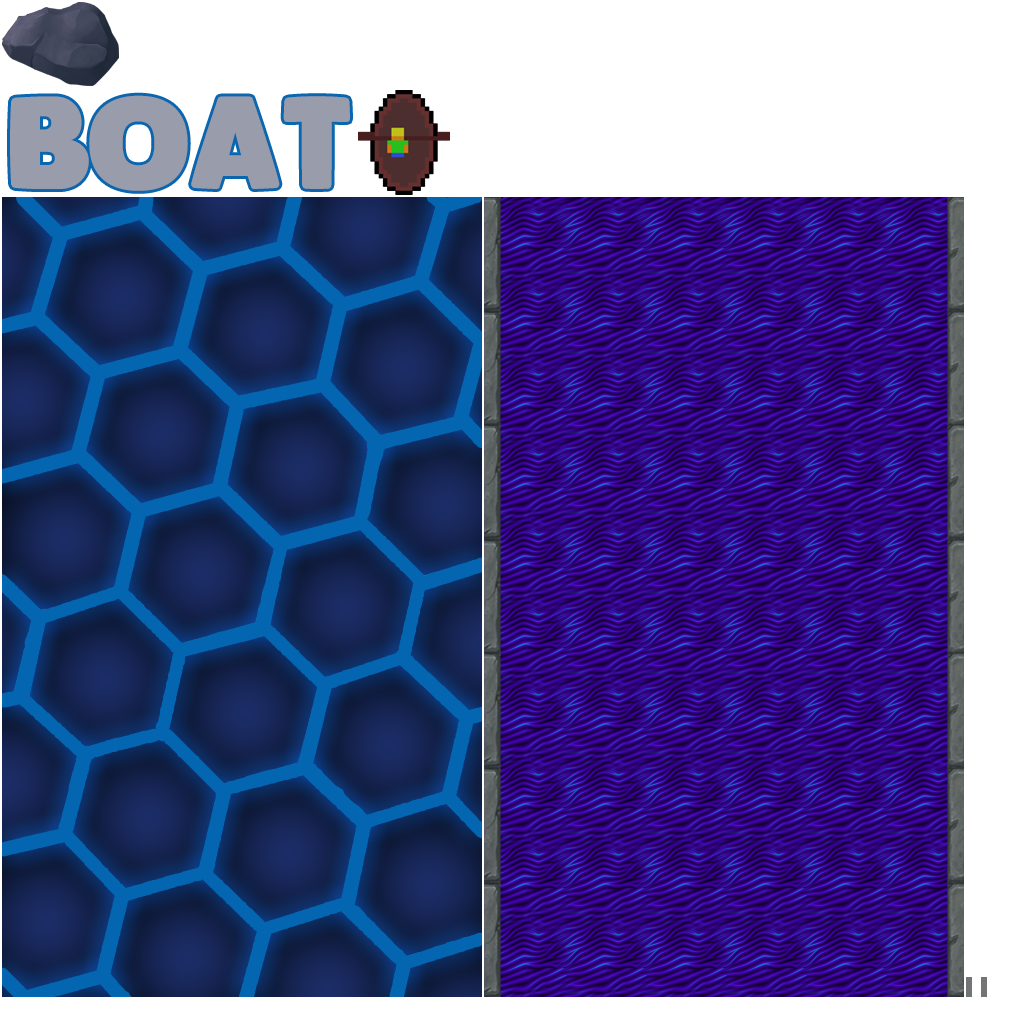
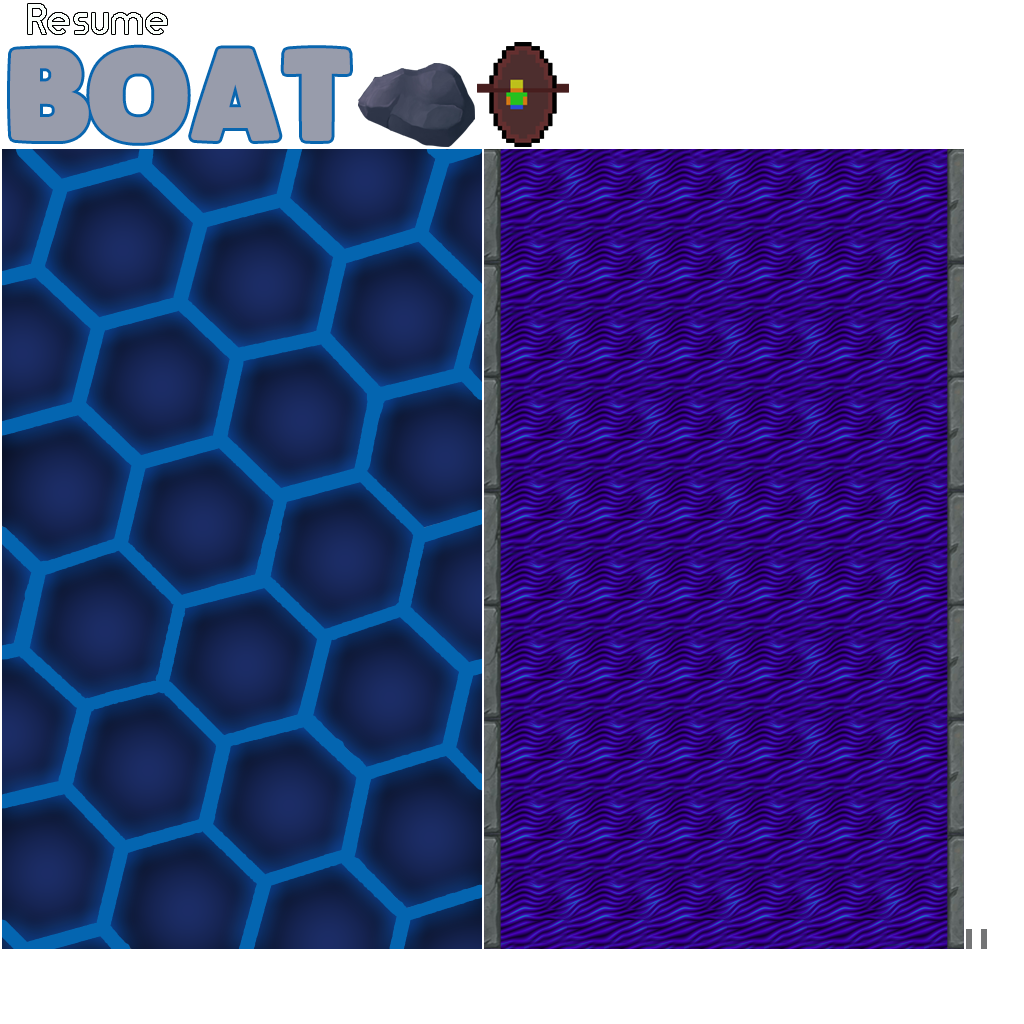
Pause

diff --git a/core/src/com/itayandtamir/game/Screens/PlayScreen.java b/core/src/com/itayandtamir/game/Screens/PlayScreen.java
@@ -4,8 +4,19 @@ import com.badlogic.gdx.Gdx;
 import com.badlogic.gdx.InputAdapter;
 import com.badlogic.gdx.InputMultiplexer;
 import com.badlogic.gdx.ScreenAdapter;
+import com.badlogic.gdx.graphics.GL20;
 import com.badlogic.gdx.input.GestureDetector;
+import com.badlogic.gdx.math.Rectangle;
+import com.badlogic.gdx.math.Vector3;
+import com.badlogic.gdx.scenes.scene2d.Actor;
+import com.badlogic.gdx.scenes.scene2d.InputEvent;
 import com.badlogic.gdx.scenes.scene2d.Stage;
+import com.badlogic.gdx.scenes.scene2d.ui.Image;
+import com.badlogic.gdx.scenes.scene2d.ui.Label;
+import com.badlogic.gdx.scenes.scene2d.ui.TextButton;
+import com.badlogic.gdx.scenes.scene2d.ui.Window;
+import com.badlogic.gdx.scenes.scene2d.utils.ClickListener;
+import com.badlogic.gdx.utils.Align;
 import com.badlogic.gdx.utils.viewport.StretchViewport;
 import com.itayandtamir.game.Actors.Boat;
 import com.itayandtamir.game.Actors.ObstacleGroup;
@@ -14,26 +25,38 @@ import com.itayandtamir.game.Assets;
 import com.itayandtamir.game.FirstGame;
 import com.itayandtamir.game.Screens.Stages.PlayHud;
 
+import java.security.AllPermission;
+
 public class PlayScreen extends ScreenAdapter {
     private FirstGame game;
-    private Stage stage;
+    public static Stage stage;
 
+    public static Image image;
     private PlayBackgrounds backgrounds;
     private ObstacleGroup obstacles;
     private Boat boat;
     private PlayHud playHud;
+    Vector3 touchPos;
+    Rectangle resumeRec;
 
-    enum GameState {
+
+    public enum GameState {
         Play, Pause, Dead
     }
 
-    private GameState gameState;
+    public static GameState gameState;
 
     public PlayScreen(FirstGame firstGame) {
         this.game = firstGame;
         stage = new Stage(new StretchViewport(FirstGame.WORLD_WIDTH, FirstGame.WORLD_HEIGHT), Assets.batch);
         playHud = new PlayHud(new StretchViewport(FirstGame.WORLD_WIDTH, FirstGame.WORLD_HEIGHT), Assets.batch, firstGame);
+        touchPos = new Vector3();
+        resumeRec = new Rectangle();
+        resumeRec.setSize(192, 36);
 
+        image = new Image(Assets.resume);
+
+        image.setSize(192, 36);
         backgrounds = new PlayBackgrounds();
         obstacles = new ObstacleGroup(stage, playHud);
         boat = new Boat();
@@ -41,6 +64,7 @@ public class PlayScreen extends ScreenAdapter {
         stage.addActor(backgrounds);
         stage.addActor(obstacles);
         stage.addActor(boat);
+
 
         initInputProcessor();
 
@@ -54,7 +78,10 @@ public class PlayScreen extends ScreenAdapter {
                 stage.act(delta);
                 checkCollisions();
                 playHud.updateScoreLabel(delta);
+                updateLocation(delta);
             case Pause:
+                //PlayHud.pauseWindow.setVisible(true);
+                gamePaused();
             case Dead:
                 stage.draw();
                 playHud.act(delta);
@@ -62,6 +89,7 @@ public class PlayScreen extends ScreenAdapter {
                 break;
         }
     }
+
 
     @Override
     public void dispose() {
@@ -86,10 +114,10 @@ public class PlayScreen extends ScreenAdapter {
                 return false;
             }
         }));
-        multiplexer.addProcessor(new InputAdapter(){
+        multiplexer.addProcessor(new InputAdapter() {
             @Override
             public boolean touchDown(int screenX, int screenY, int pointer, int button) {
-                if(gameState == GameState.Dead)
+                if (gameState == GameState.Dead)
                     game.setScreen(new PlayScreen(game));
                 return true;
             }
@@ -104,4 +132,22 @@ public class PlayScreen extends ScreenAdapter {
             playHud.gameover();
         }
     }
+
+    public void gamePaused() {
+        if (Gdx.input.justTouched()) {
+            stage.getCamera().unproject(touchPos.set(Gdx.input.getX(), Gdx.input.getY(), 0));
+
+            if (resumeRec.contains(touchPos.x, touchPos.y)) {
+                PlayScreen.gameState = PlayScreen.GameState.Play;
+                image.remove();
+            }
+        }
+    }
+
+    public void updateLocation(float delta) {
+        image.setPosition(stage.getCamera().position.x - image.getWidth() / 2, stage.getCamera().position.y);
+        resumeRec.setPosition(stage.getCamera().position.x - image.getWidth() / 2, stage.getCamera().position.y);
+    }
+
 }
+

diff --git a/core/src/com/itayandtamir/game/Screens/Stages/PlayHud.java b/core/src/com/itayandtamir/game/Screens/Stages/PlayHud.java
@@ -1,19 +1,27 @@
 package com.itayandtamir.game.Screens.Stages;
 
+import com.badlogic.gdx.ApplicationListener;
+import com.badlogic.gdx.Gdx;
 import com.badlogic.gdx.graphics.g2d.SpriteBatch;
+import com.badlogic.gdx.math.Rectangle;
+import com.badlogic.gdx.math.Vector3;
 import com.badlogic.gdx.scenes.scene2d.InputEvent;
 import com.badlogic.gdx.scenes.scene2d.Stage;
 import com.badlogic.gdx.scenes.scene2d.ui.ImageButton;
 import com.badlogic.gdx.scenes.scene2d.ui.Label;
 import com.badlogic.gdx.scenes.scene2d.ui.TextButton;
+import com.badlogic.gdx.scenes.scene2d.ui.Window;
 import com.badlogic.gdx.scenes.scene2d.utils.ClickListener;
 import com.badlogic.gdx.scenes.scene2d.utils.TextureRegionDrawable;
 import com.badlogic.gdx.utils.Align;
+import com.badlogic.gdx.utils.viewport.StretchViewport;
 import com.badlogic.gdx.utils.viewport.Viewport;
 import com.itayandtamir.game.Assets;
 import com.itayandtamir.game.FirstGame;
 import com.itayandtamir.game.Screens.MenuScreen;
 import com.itayandtamir.game.Screens.PauseScreen;
+import com.itayandtamir.game.Screens.PauseStage;
+import com.itayandtamir.game.Screens.PlayScreen;
 
 import static com.badlogic.gdx.scenes.scene2d.actions.Actions.*;
 
@@ -23,24 +31,51 @@ public class PlayHud extends Stage {
     private int score;
     private float timeCount;
 
+    public ImageButton pauseButton;
     private Label scoreLabel;
     private Label gameoverLabel;
     private TextButton backToMenu;
-    public ImageButton pauseButton;
+    //public static Window pauseWindow;
 
-    public PlayHud(Viewport viewport, SpriteBatch batch, FirstGame firstGame) {
+    public PlayHud(final Viewport viewport, final SpriteBatch batch, FirstGame firstGame) {
         super(viewport, batch);
         game = firstGame;
 
         pauseButton = new ImageButton(new TextureRegionDrawable(Assets.pauseButton));
         pauseButton.setPosition(440, 780, Align.top);
         pauseButton.setScale(2);
-        pauseButton.addListener(new ClickListener(){
+        pauseButton.addListener(new ClickListener() {
             @Override
             public void clicked(InputEvent event, float x, float y) {
-                game.setScreen(new PauseScreen(game));
+                //addActor(pauseWindow);
+                PlayScreen.gameState = PlayScreen.GameState.Pause;
+                PlayScreen.stage.addActor(PlayScreen.image);
+
+
             }
         });
+
+
+//        pauseWindow = new Window("", Assets.skin);
+//        pauseWindow.setVisible(false);
+//        pauseWindow.padTop(32);
+//        pauseWindow.pack();
+//        pauseWindow.setFillParent(false);
+//        pauseWindow.setBackground(new TextureRegionDrawable(Assets.backgroundPause));
+//        pauseWindow.setSize(FirstGame.WORLD_WIDTH / 2, FirstGame.WORLD_HEIGHT / 2);
+//        pauseWindow.setPosition(getWidth() / 2 - pauseWindow.getWidth() / 2, getHeight() / 2 - pauseWindow.getHeight() / 2);
+//        TextButton continueButton = new TextButton("continue", Assets.skin);
+//        continueButton.addListener(new ClickListener() {
+//            @Override
+//            public void clicked(InputEvent event, float x, float y) {
+//                PlayScreen.gameState = PlayScreen.gameState.Play;
+//                pauseWindow.setVisible(false);
+//            }
+//        });
+//
+//        pauseWindow.add(continueButton).row();
+//		pauseWindow.add(new TextButton("exit", Assets.skin));
+
 
         score = 0;
         timeCount = 0;
@@ -66,6 +101,7 @@ public class PlayHud extends Stage {
         addActor(gameoverLabel);
         addActor(backToMenu);
         addActor(pauseButton);
+
     }
 
     @Override

diff --git a/core/src/com/itayandtamir/game/Screens/PauseStage.java b/core/src/com/itayandtamir/game/Screens/PauseStage.java
@@ -1,0 +1,34 @@
+package com.itayandtamir.game.Screens;
+
+import com.badlogic.gdx.graphics.g2d.Batch;
+import com.badlogic.gdx.scenes.scene2d.Stage;
+import com.badlogic.gdx.scenes.scene2d.ui.Image;
+import com.badlogic.gdx.utils.viewport.Viewport;
+import com.itayandtamir.game.Assets;
+
+
+/**
+ * Created by Tamir on 27/03/2016.
+ */
+public class PauseStage extends Stage {
+
+    private Image pauseImage;
+
+    public PauseStage(Viewport viewport, Batch batch) {
+        super(viewport, batch);
+
+        pauseImage = new Image(Assets.backgroundPause);
+
+        addActor(pauseImage);
+    }
+
+    @Override
+    public void act(float delta) {
+        super.act(delta);
+    }
+
+    @Override
+    public void dispose() {
+        super.dispose();
+    }
+}

diff --git a/core/src/com/itayandtamir/game/Assets.java b/core/src/com/itayandtamir/game/Assets.java
@@ -14,6 +14,7 @@ public class Assets {
     public static Skin skin;
 
     //Non-Disposeables
+    public static TextureRegion resume;
     public static TextureRegion pauseButton;
     public static TextureRegion backgroundMenu;
     public static TextureRegion backgroundPause;
@@ -29,6 +30,7 @@ public class Assets {
         batch = new SpriteBatch();
         skin = new Skin(Gdx.files.internal("skins/skin.json"));
 
+        resume = atlas.findRegion("resume");
         pauseButton = atlas.findRegion("pauseButton");
         backgroundMenu = atlas.findRegion("BackgroundMenu");
         backgroundPause = atlas.findRegion("backgroundPause");
